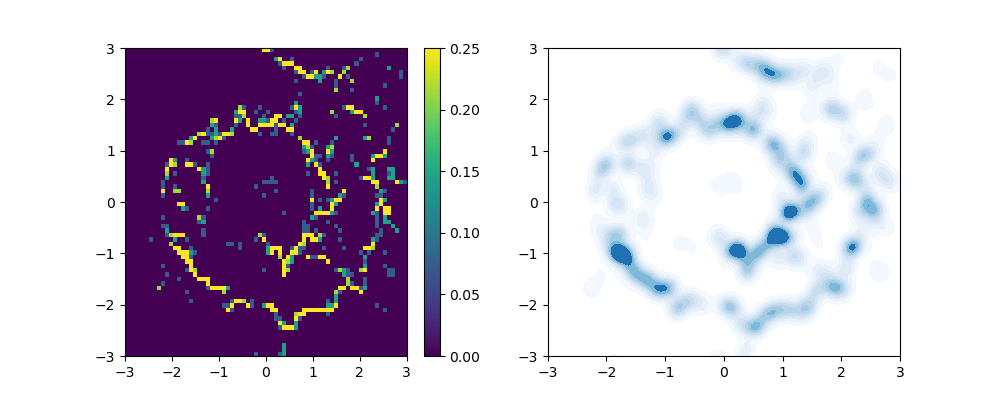
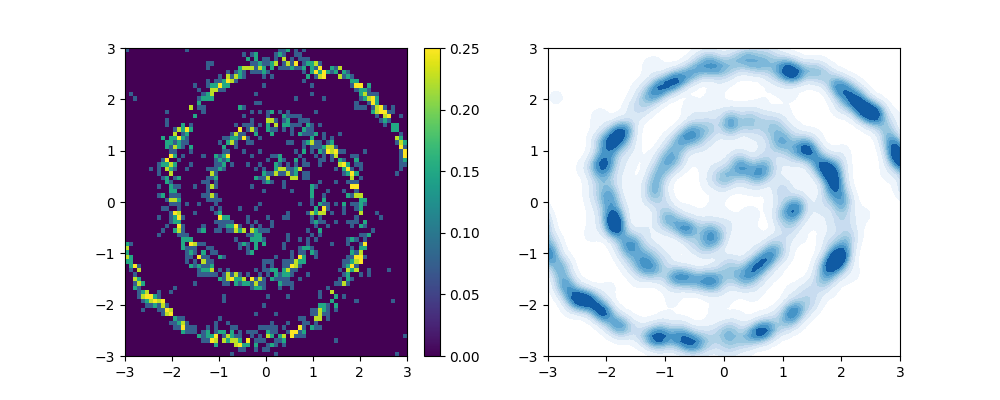
generic commit

diff --git a/scripts/transport/kvae_flow.py b/scripts/transport/kvae_flow.py
@@ -78,7 +78,7 @@ class Comp_transport_model:
         self.plot_steps = False
 
         n = len(self.submodel_params['Lambda_mean'])
-        eps = 1#1e-3
+        eps = 1 #1e-3
         self.noise_shrink_c = np.exp(np.log(eps)/(n-1))
         self.noise_eps = 1
 
@@ -727,7 +727,7 @@ def run():
     batch_size = 2000
     two_d_exp(ref_gen, sample_spirals, N=N, n_iter=49, plt_range=[[-3, 3], [-3, 3]], process_funcs=[],
               skip_idx=1, slice_vals=[], slice_range=[-3,3], exp_name='exp', n_transports=200, vmax=.25,
-              batch_size = batch_size, N_plot = N, reg_lambda= 1e-5)
+              batch_size = batch_size, reg_lambda= 1e-5, N_plot = 10000)
 
 
     #vl_exp(N = 20000, batch_size=4000, n_transports=150, n_iter=51, exp_name='kvl_exp')
